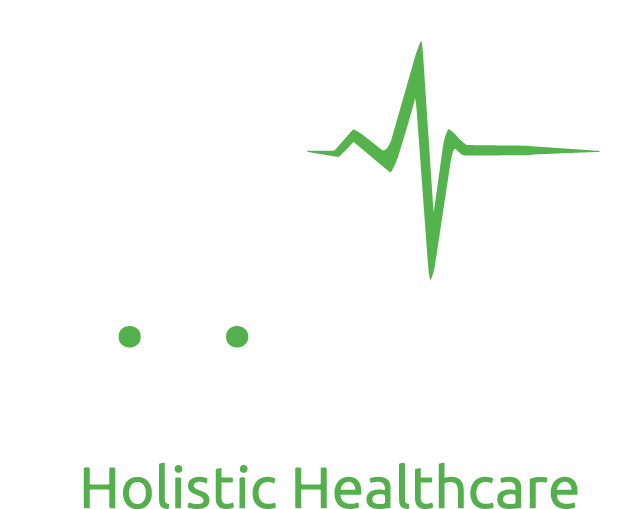
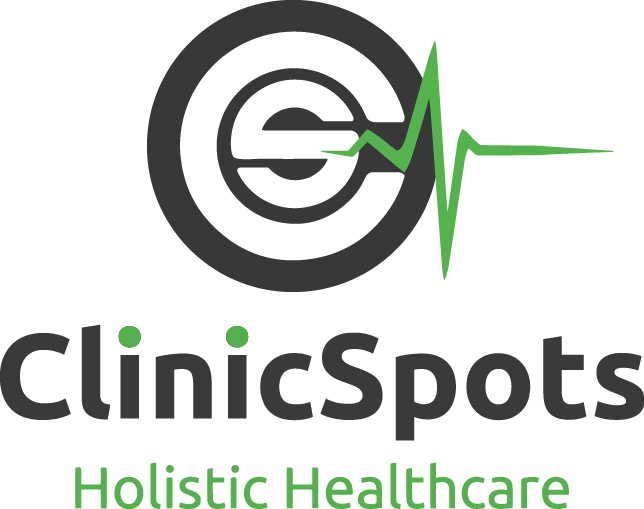
White Theme

diff --git a/index.html b/index.html
@@ -1,7 +1,7 @@
 <!DOCTYPE html>
 <html>
 <head>
-	<title>Abdul Wahid Naafi</title>
+	<title>Abdul Wahid Naafi - Software Engineer | Web Developer </title>
 	<meta name="viewport" content="width=device-width, initial-scale=1.0">
 	<link rel="stylesheet" href="style.css" />
 	<link rel="apple-touch-icon" sizes="57x57" href="assets/icon/apple-icon-57x57.png">
@@ -29,13 +29,23 @@
 <body>
 <div class="maincon">
 <div class="logocon pushpin">
-	<img src="assets/logo_white.png" class="logo">
+	<img src="assets/logo_black.png" class="logo">
+</div>
+<br/>
+<div class="social">
+	
+	<a href="https://github.com/naaficodes" target="_blank"><i class="fab fa-github"></i></a>
+	<a href="https://codepen.io/naafi" target="_blank"><i class="fab fa-codepen"></i></a>
+	<a href="https://Instagram.com/iam_naafi" target="_blank"><i class="fab fa-instagram"></i></a>
+	<a href="https://www.facebook.com/abdul.w.naafi" target="_blank"><i class="fab fa-facebook-f"></i></a>
+	<a href="https://Linkedin.com/in/naafi" target="_blank"><i class="fab fa-linkedin-in"></i></a>
+	<a href="https://medium.com/@iam_naafi" target="_blank"><i class="fab fa-medium-m"></i></a>
 </div>
 <div class="div">
 	<section id="aboutme" class="aboutme">
 		<h3>Hey there,</h3>
 		<h1>I'm Abdul Wahid Naafi</h1>
-		<h4>Full Stack Web <u>Developer</u> | UI/UX <u>Designer</u></h4>
+		<p>Full Stack Web <u>Developer</u> | UI/UX <u>Designer</u></p><br/>
 		<p>I started my journey in the world of computers from an young age,
 now I’m 20 years old, Pursuing my Software Engineering Degree in
 VIT University Vellore.  Web development is my center of interest, i always
@@ -43,18 +53,18 @@ love the idea of cross-platform development, 1-n one code base deploy into almos
 any platform, which web technology like Javascript enables me to do. I also like
 creating Interactive UI components for better UX  and share those desgin and codes
 to the world through Github, Codepen and Instagram.
-</p>
-<div class="social">
+</p><br/>
+<!-- <div class="social">
 	<a href="https://codepen.io/naafi" target="_blank"><i class="fab fa-codepen"></i></a>
 	<a href="https://github.com/naaficodes" target="_blank"><i class="fab fa-github"></i></a>
 	<a href="https://Instagram.com/iam_naafi" target="_blank"><i class="fab fa-instagram"></i></a>
 	<a href="https://www.facebook.com/abdul.w.naafi" target="_blank"><i class="fab fa-facebook-f"></i></a>
 	<a href="https://Linkedin.com/in/naafi" target="_blank"><i class="fab fa-linkedin-in"></i></a>
 	<a href="https://medium.com/@iam_naafi" target="_blank"><i class="fab fa-medium-m"></i></a>
-</div>
+</div> -->
 	</section>
 	<section class="myphoto">
-		<img src="assets/naafi.png">
+		<img src="assets/naafi.jpg">
 	</section>
 </div>
 <div class="multitopic">
@@ -74,7 +84,7 @@ to the world through Github, Codepen and Instagram.
 			<div class="complogo">
 				<!-- <img src="assets/ecell.png" width="120"> -->
 				<picture>
-					<source srcset="assets/ecell.png" media="(min-width: 786px)">
+					<source srcset="assets/ecell_black.png" media="(min-width: 786px)">
 						<img />
 				</picture>
 			</div>
@@ -188,16 +198,18 @@ to the world through Github, Codepen and Instagram.
 
 		</section> -->
 	</div>
-<!-- <div class="lcs subtitle">
-	<span style="color: red;">Live</span> Codepen Projects Slideshow
+
+<!-- 	<section>
+		<div class="subtitle">
+	What I've been working on
+
 </div>
-<div class="lcs div">
-	<iframe class="live-slideshow" src="https://codepen.io/tv/Xqjvja"></iframe>
-</div> -->
+	</section> -->
+
 </div>
 <footer>
 	<section class="footertxt">Designed and Developed by : Abdul Wahid Naafi L A</section>
-	<section class="footerimg"><img src="assets/logo_black.png" width="50" /></section>
+	<section class="footerimg"><img src="assets/logo_white.png" width="34" /></section>
 </footer>
 
 <script type="text/javascript">

diff --git a/style.css b/style.css
@@ -7,9 +7,9 @@
 }
 body
 {
-	background-color: #1b1d20;
+	background-color: white;
 	font-family: 'Montserrat';
-	color: #ffffff;
+	color: #1b1d20;
 	overflow-x: hidden;
 }
 picture img
@@ -22,8 +22,7 @@ picture img
 }
 .logo
 {
-	width: 50px;
-	height: 64.08px;
+	width: 34px;
 }
 .div
 {
@@ -74,8 +73,8 @@ p
 }
 .myphoto img
 {
-	width: 330px;
-	height: 330px;
+	width: 430px;
+	/*height: 500px;*/
 	transition: 1s;
 	/*box-shadow: rgba(0, 0, 0, 0.64) 13.8918px 78.7845px 80px;*/
 	box-shadow: 0 10px 20px rgba(0,0,0,0.19), 0 6px 6px rgba(0,0,0,0.23);
@@ -100,7 +99,7 @@ p
 }
 .social i:hover
 {
-	color: #ffffff;
+	color: #1b1d20;
 }
 .multitopic{
 	display: flex;
@@ -133,8 +132,8 @@ p
 }
 .skillset ul li:hover
 {
-	background-color: #ffffff;
-	color: #1b1d20;
+	background-color: #1b1d20;
+	color: white;
 	cursor: pointer;
 	/*box-shadow: 0 10px 20px rgba(0,0,0,0.19), 0 6px 6px rgba(0,0,0,0.23);*/
 
@@ -216,10 +215,11 @@ p
 }
 footer
 {
-	background-color: white;
+	background-color: #1b1d20;
 	width: 100%; 
 	height: 150px;
 	display: flex;
+	color: white;
 }
 .footertxt
 {
@@ -227,7 +227,7 @@ footer
 	display: flex;
 	justify-content: center;
 	align-items: center;
-	color:#1b1d20; 
+	color:white; 
 	flex:9;
 }
 .footerimg
@@ -267,7 +267,11 @@ footer
 .maincon{
 	padding:40px 20px 20px 20px;
 }
-.subtitle,.logocon
+.logocon
+{
+	margin-bottom: 40px;
+}
+.subtitle
 {
 	display: flex;
 	justify-content: center;
